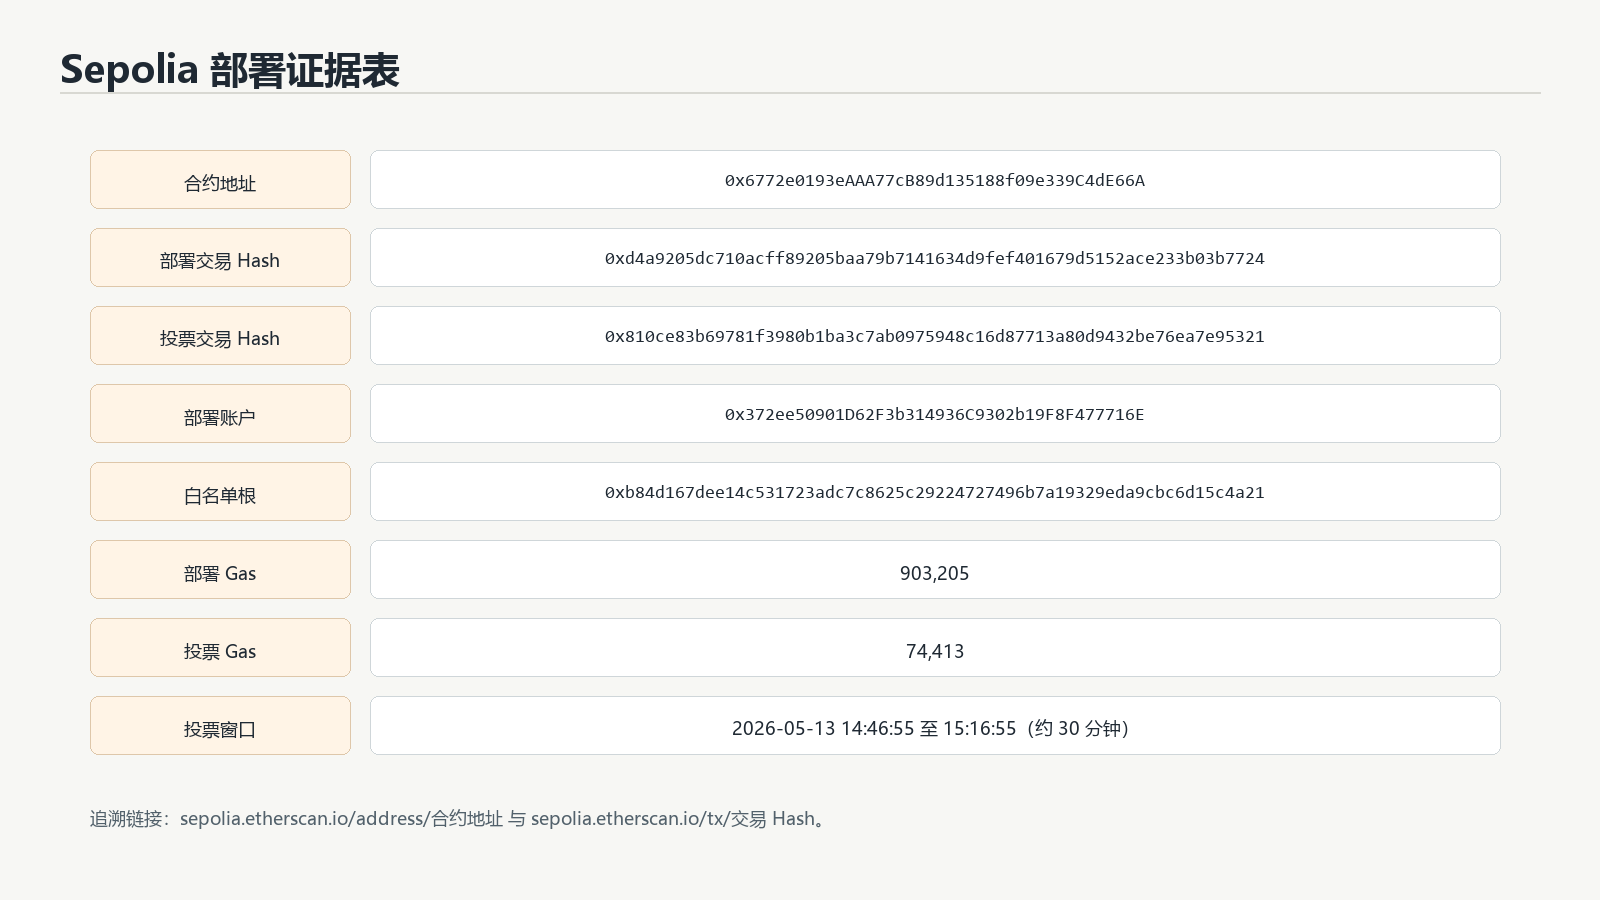
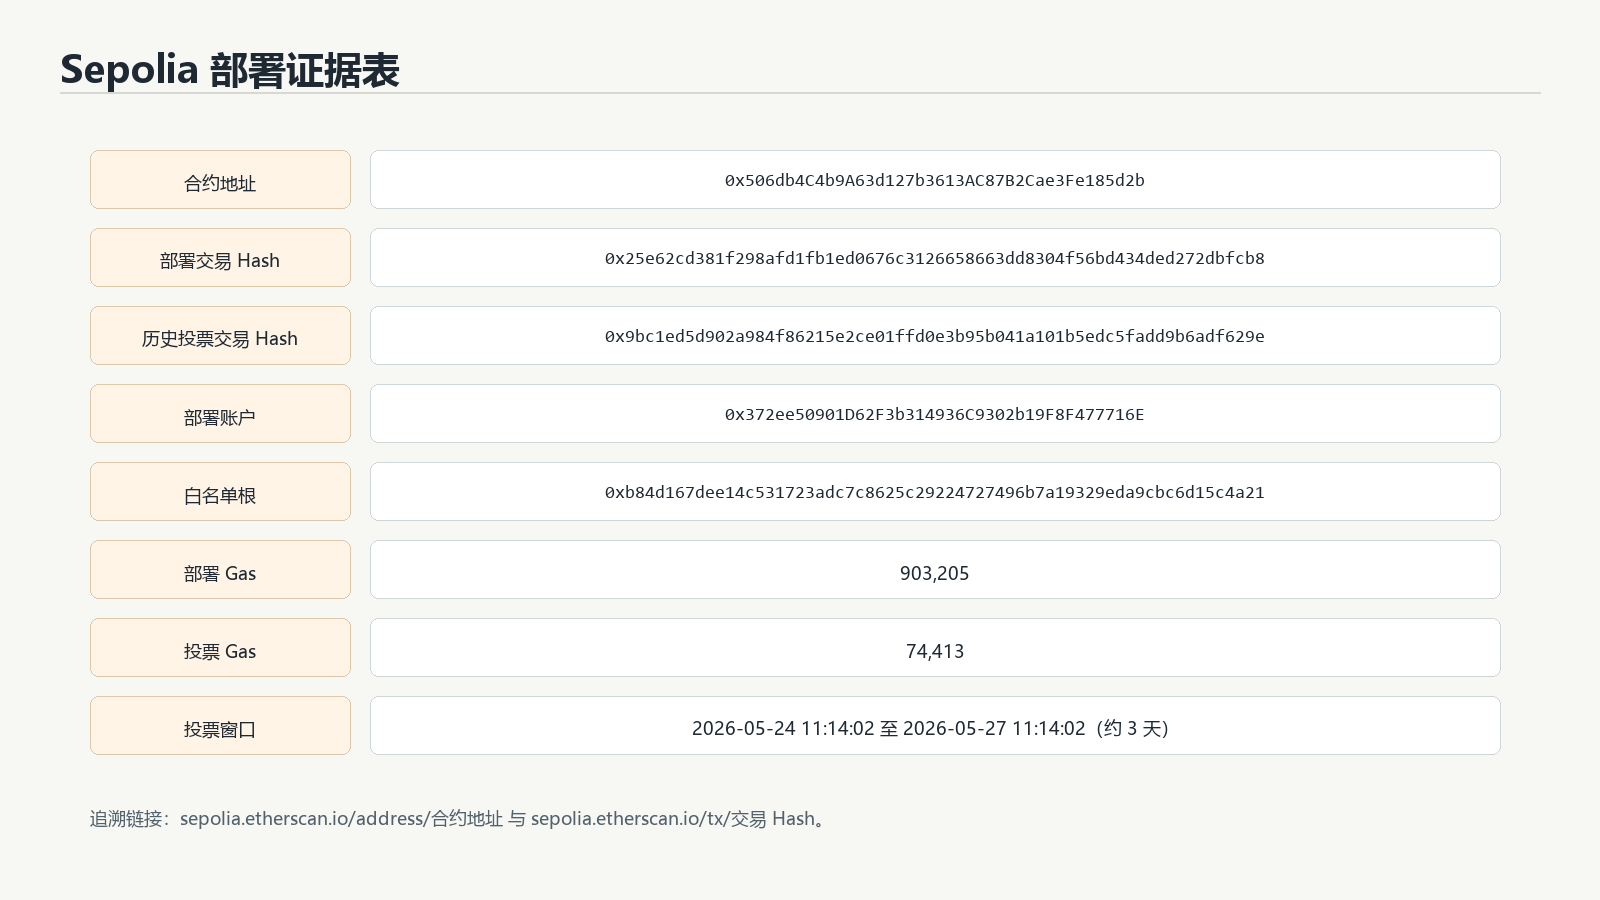
docs(部署): 将 Sepolia 投票窗口调整为 3 天

diff --git a/scripts/deploy.ts b/scripts/deploy.ts
@@ -44,8 +44,8 @@ async function main() {
   const candidates = validateCandidates(JSON.parse(fs.readFileSync(candidatesPath, "utf8")) as string[]);
   const merkleRoot = validateMerkleRoot(whitelist.merkleRoot);
   const now = Math.floor(Date.now() / 1000);
-  // 默认投票窗口为 30 分钟，满足毕业设计演示时的短周期测试需求。
-  const votingEndTime = now + 30 * 60;
+  // 默认投票窗口为 3 天，便于公网部署后留出充分的远程演示和测试时间。
+  const votingEndTime = now + 3 * 24 * 60 * 60;
   const title = "基于智能合约的去中心化电子投票演示";
 
   const VotingSystem = await ethers.getContractFactory("VotingSystem");

diff --git a/scripts/generateGraduationThesis.py b/scripts/generateGraduationThesis.py
@@ -405,13 +405,13 @@ def add_declarations(doc: Document):
 def add_abstracts(doc: Document):
     add_center(doc, "摘　　要", size=18, bold=True, font_name="黑体")
     add_para(doc, "随着在线治理、数字化协同和远程办公场景不断扩展，电子投票系统需要在可用性、透明性、结果可复核和安全性之间取得平衡。传统中心化电子投票系统通常由单一服务端保存选民状态和计票结果，容易面临单点故障、内部人为干预、过程追溯困难和结果公信力不足等问题。针对上述问题，本文设计并实现了一种基于 Solidity 智能合约与 Ethereum Sepolia 测试网的去中心化电子投票系统。系统以 VotingSystem 智能合约承载投票主题、候选项、投票时间、白名单资格校验、防重复投票和链上计票等核心逻辑；采用 Merkle Tree 保存白名单根以降低链上存储成本；使用 React、Vite、TypeScript、Ethers.js 和 MetaMask 构建前端 DApp，实现钱包连接、资格证明读取、投票提交、交易回执展示和实时结果查询。")
-    add_para(doc, "本文完成了需求分析、系统设计、合约实现、前端开发、自动化测试、Gas 消耗分析、安全审计和 Sepolia 测试网部署。测试结果显示，系统自动化测试共 24 个用例全部通过；本地部署 Gas 为 767,754，vote 方法平均 Gas 为 73,661；最新 Sepolia 部署合约地址为 0x6772e0193eAAA77cB89d135188f09e339C4dE66A，并完成了一笔真实投票交易。Slither 审计结果仅提示与投票截止时间相关的 timestamp 风险，该风险属于可解释的业务边界。实践结果表明，系统能够实现地址级资格控制、链上公开计票和结果可追溯，为小规模电子投票场景提供了一种可运行、可验证的实现方案。")
+    add_para(doc, "本文完成了需求分析、系统设计、合约实现、前端开发、自动化测试、Gas 消耗分析、安全审计和 Sepolia 测试网部署。测试结果显示，系统自动化测试共 24 个用例全部通过；本地部署 Gas 为 767,754，vote 方法平均 Gas 为 73,661；最新 Sepolia 部署合约地址为 0x506db4C4b9A63d127b3613AC87B2Cae3Fe185d2b，投票窗口约为 3 天。Slither 审计结果仅提示与投票截止时间相关的 timestamp 风险，该风险属于可解释的业务边界。实践结果表明，系统能够实现地址级资格控制、链上公开计票和结果可追溯，为小规模电子投票场景提供了一种可运行、可验证的实现方案。")
     add_para(doc, "关键词：去中心化投票；智能合约；Solidity；Merkle Tree；Ethereum；DApp", first_line=False, bold_prefix="关键词：")
     doc.add_page_break()
 
     add_center(doc, "ABSTRACT", size=18, bold=True, font_name="Times New Roman")
     add_para(doc, "With the expansion of online governance, digital collaboration and remote working scenarios, electronic voting systems need to balance usability, transparency, verifiability and security. Traditional centralized electronic voting systems usually store voter states and tallying results on a single server, which may lead to single point of failure, internal manipulation, weak process traceability and insufficient public trust. To address these problems, this thesis designs and implements a decentralized electronic voting system based on Solidity smart contracts and the Ethereum Sepolia test network. The VotingSystem smart contract is used to manage the voting title, candidates, voting period, whitelist verification, duplicate-vote prevention and on-chain tallying. A Merkle Tree whitelist is adopted so that only the Merkle root is stored on chain, reducing storage overhead. The front-end DApp is implemented with React, Vite, TypeScript, Ethers.js and MetaMask, supporting wallet connection, proof loading, vote submission, transaction receipt display and real-time result query.")
-    add_para(doc, "The work covers requirement analysis, system design, smart contract implementation, front-end development, automated testing, gas consumption analysis, security auditing and deployment on Sepolia. The automated test suite contains 24 passed cases. The local deployment consumes 767,754 gas, while the average gas consumption of the vote method is 73,661. The latest deployed Sepolia contract address is 0x6772e0193eAAA77cB89d135188f09e339C4dE66A, and one real voting transaction has been submitted successfully. Slither reports only timestamp-related warnings for the voting deadline, which are treated as acceptable business constraints. The results show that the system can provide address-level eligibility control, transparent on-chain tallying and traceable voting evidence, offering an executable and verifiable prototype for small-scale electronic voting scenarios.")
+    add_para(doc, "The work covers requirement analysis, system design, smart contract implementation, front-end development, automated testing, gas consumption analysis, security auditing and deployment on Sepolia. The automated test suite contains 24 passed cases. The local deployment consumes 767,754 gas, while the average gas consumption of the vote method is 73,661. The latest deployed Sepolia contract address is 0x506db4C4b9A63d127b3613AC87B2Cae3Fe185d2b, with a voting window of about three days. Slither reports only timestamp-related warnings for the voting deadline, which are treated as acceptable business constraints. The results show that the system can provide address-level eligibility control, transparent on-chain tallying and traceable voting evidence, offering an executable and verifiable prototype for small-scale electronic voting scenarios.")
     add_para(doc, "Key words: decentralized voting; smart contract; Solidity; Merkle Tree; Ethereum; DApp", first_line=False, bold_prefix="Key words:")
     doc.add_page_break()
 
@@ -438,7 +438,7 @@ def add_body(doc: Document):
     add_para(doc, "从国内应用背景看，电子投票常出现在高校评选、社团决策、企业内部意见征集和线上活动评审等场景。这些场景通常规模有限，但对过程公开、结果可信和操作便捷有一定要求。本文系统面向这类教学和演示场景，将核心目标放在防重复投票、防非授权地址投票、链上公开计票和部署证据留存，而不直接处理政务选举中的实名身份核验、强匿名性和法律效力问题。")
     add_section_heading(doc, "1.3  研究目标与主要内容")
     add_para(doc, "本文的研究目标是设计并实现一个可运行、可部署、可测试、可追溯的去中心化电子投票系统。系统应支持管理员配置投票主题和候选项，支持使用地址白名单限制投票资格，支持选民通过钱包签名提交投票交易，支持合约自动拒绝非白名单地址、重复投票和超时投票，并支持前端读取链上结果。")
-    add_para(doc, "围绕上述目标，本文完成以下工作：第一，设计投票系统的角色、功能需求、非功能需求和威胁边界；第二，基于 Solidity 编写 VotingSystem 智能合约，并使用 OpenZeppelin MerkleProof 完成白名单验证；第三，使用 Hardhat 搭建编译、测试、部署和 Gas 统计流程；第四，使用 React、TypeScript、Ethers.js 和 MetaMask 实现前端 DApp；第五，在 Sepolia 测试网上重新部署合约并提交真实投票交易；第六，使用 Slither 完成合约静态分析并形成审计记录。")
+    add_para(doc, "围绕上述目标，本文完成以下工作：第一，设计投票系统的角色、功能需求、非功能需求和威胁边界；第二，基于 Solidity 编写 VotingSystem 智能合约，并使用 OpenZeppelin MerkleProof 完成白名单验证；第三，使用 Hardhat 搭建编译、测试、部署和 Gas 统计流程；第四，使用 React、TypeScript、Ethers.js 和 MetaMask 实现前端 DApp；第五，在 Sepolia 测试网上重新部署合约并同步前端配置；第六，使用 Slither 完成合约静态分析并形成审计记录。")
     add_section_heading(doc, "1.4  论文结构安排")
     add_para(doc, "全文共分为七章。第一章介绍研究背景、研究现状、研究目标和论文结构。第二章说明 Ethereum、Solidity、ECDSA、Keccak-256、Merkle Tree 和 DApp 钱包交互等相关技术。第三章给出系统需求分析和威胁模型。第四章描述系统总体架构、业务流程、投票流程、合约接口和前端模块。第五章介绍智能合约、白名单脚本、部署脚本和前端界面的具体实现。第六章给出测试结果、Gas 消耗、安全审计和 Sepolia 部署证据。第七章总结已完成工作并分析后续改进方向。")
     add_section_heading(doc, "1.5  技术路线与可行性分析")
@@ -641,9 +641,9 @@ def add_body(doc: Document):
     add_para(doc, "私钥管理是系统实践中的重要风险。项目部署使用测试网账户完成，私钥只应保存在本地 .env 文件中，不应提交到 GitHub。由于测试网私钥在调试过程中存在暴露可能，完成毕业设计材料后应更换部署钱包或放弃该测试账户，避免后续被他人使用。")
     add_picture(doc, FIG / "security-audit-summary.png", "图6.3  Slither 安全审计结果摘要", width=5.7)
     add_section_heading(doc, "6.5  Sepolia 测试网部署结果")
-    add_para(doc, "最新 Sepolia 合约地址为 0x6772e0193eAAA77cB89d135188f09e339C4dE66A，部署交易 Hash 为 0xd4a9205dc710acff89205baa79b7141634d9fef401679d5152ace233b03b7724。部署账户为 0x372ee50901D62F3b314936C9302b19F8F477716E，投票窗口约为 30 分钟。系统已使用部署账户完成一笔真实投票交易，交易 Hash 为 0x810ce83b69781f3980b1ba3c7ab0975948c16d87713a80d9432be76ea7e95321，区块高度为 10843573。")
-    add_para(doc, "重新部署合约的目的，是为论文材料提供当前项目状态下的最新链上证据。由于投票窗口被设置为约 30 分钟，旧合约在窗口结束后无法继续产生有效投票交易，因此需要重新部署以获得可演示的投票窗口和真实交易回执。部署完成后，前端配置文件被重新导出，确保页面中的合约地址与 Sepolia 上的最新实例一致。")
-    add_para(doc, "部署证据不仅包括合约地址，还包括部署交易 Hash、投票交易 Hash、部署账户、白名单根、Gas 消耗和前端读取截图。合约地址能够定位链上合约实例，交易 Hash 能够定位具体执行过程，Gas 消耗能够说明执行成本，截图能够证明前端已读取对应合约状态。这些材料互相印证，比单独给出一个地址更适合毕业设计验收。")
+    add_para(doc, "最新 Sepolia 合约地址为 0x506db4C4b9A63d127b3613AC87B2Cae3Fe185d2b，部署交易 Hash 为 0x25e62cd381f298afd1fb1ed0676c3126658663dd8304f56bd434ded272dbfcb8。部署账户为 0x372ee50901D62F3b314936C9302b19F8F477716E，投票窗口约为 3 天，截止时间为北京时间 2026 年 5 月 27 日 11:14:02。")
+    add_para(doc, "重新部署合约的目的，是为公网部署和远程演示提供更充足的投票时间。与 30 分钟演示窗口相比，3 天窗口更适合让他人通过服务器访问前端并连接 Sepolia 钱包进行测试。部署完成后，前端配置文件被重新导出，确保页面中的合约地址与 Sepolia 上的最新实例一致。")
+    add_para(doc, "部署证据不仅包括合约地址，还包括部署交易 Hash、部署账户、白名单根、Gas 消耗和前端读取截图。合约地址能够定位链上合约实例，交易 Hash 能够定位具体执行过程，Gas 消耗能够说明执行成本，截图能够证明前端已读取对应合约状态。历史投票交易回执继续保留为既有链上证据，但不作为本次 3 天新合约的投票结果。")
     add_picture(doc, FIG / "deployment-evidence-table.png", "图6.4  Sepolia 部署证据表", width=5.9)
     add_picture(doc, SHOT / "system-home-chain-read.png", "图6.5  前端读取真实链上投票结果截图", width=4.8)
     add_section_heading(doc, "6.6  可复现性与结果评价")
@@ -687,9 +687,9 @@ def add_body(doc: Document):
     add_mono(doc, "npm install\nnpm run compile\nnpm test\nnpm run test:gas\nnpm run generate:whitelist\nnpm run deploy:sepolia\nnpm run export:frontend -- --network sepolia\nnpm run web:build\nslither . --filter-paths \"node_modules|artifacts|cache\"")
     add_section_heading(doc, "A.2  最新部署与交易证据")
     add_table(doc, ["字段", "内容"], [
-        ["合约地址", "0x6772e0193eAAA77cB89d135188f09e339C4dE66A"],
[2 lines of base64/hex data omitted]
+        ["合约地址", "0x506db4C4b9A63d127b3613AC87B2Cae3Fe185d2b"],
[3 lines of base64/hex data omitted]
         ["测试结果", "24 passing"],
         ["Slither 审计", "3 条 timestamp 提示，均已解释"],

diff --git a/scripts/generateGraduationFigures.py b/scripts/generateGraduationFigures.py
@@ -300,14 +300,14 @@ def build_gas_chart() -> None:
 def build_deployment_table() -> None:
     image, draw = make_canvas("Sepolia 部署证据表", 1600, 900)
     rows = [
-        ("合约地址", "0x6772e0193eAAA77cB89d135188f09e339C4dE66A"),
[2 lines of base64/hex data omitted]
+        ("合约地址", "0x506db4C4b9A63d127b3613AC87B2Cae3Fe185d2b"),
[2 lines of base64/hex data omitted]
         ("部署账户", "0x372ee50901D62F3b314936C9302b19F8F477716E"),
[1 lines of base64/hex data omitted]
         ("部署 Gas", "903,205"),
         ("投票 Gas", "74,413"),
-        ("投票窗口", "2026-05-13 14:46:55 至 15:16:55（约 30 分钟）"),
+        ("投票窗口", "2026-05-24 11:14:02 至 2026-05-27 11:14:02（约 3 天）"),
     ]
     x0, y0 = 90, 150
     for i, (key, value) in enumerate(rows):

diff --git a/docs/deployments/sepolia.md b/docs/deployments/sepolia.md
@@ -7,15 +7,15 @@
 | 网络 | Sepolia |
 | 合约 | `VotingSystem` |
 | Chain ID | `11155111` |
-| 合约地址 | `0x7140ecD54bf13bdc7A56364755fa8DAbFD3C2E28` |
[1 lines of base64/hex data omitted]
+| 合约地址 | `0x506db4C4b9A63d127b3613AC87B2Cae3Fe185d2b` |
[1 lines of base64/hex data omitted]
 | 部署账户 | `0x372ee50901D62F3b314936C9302b19F8F477716E` |
-| 部署时间 | `2026-05-24T02:18:26.689Z` |
-| 投票截止时间 | `2026-05-24T02:48:02.000Z` |
-| 投票窗口 | 约 30 分钟 |
+| 部署时间 | `2026-05-24T03:14:14.772Z` |
+| 投票截止时间 | `2026-05-27T03:14:02.000Z` |
+| 投票窗口 | 约 3 天 |
[1 lines of base64/hex data omitted]
-| Etherscan 地址 | <https://sepolia.etherscan.io/address/0x7140ecD54bf13bdc7A56364755fa8DAbFD3C2E28> |
-| Etherscan 部署交易 | <https://sepolia.etherscan.io/tx/0xa6b2bcfda0832e35ffe9f0e08781f3a25c551d4b16da586a0e42785841f62a86> |
+| Etherscan 地址 | <https://sepolia.etherscan.io/address/0x506db4C4b9A63d127b3613AC87B2Cae3Fe185d2b> |
+| Etherscan 部署交易 | <https://sepolia.etherscan.io/tx/0x25e62cd381f298afd1fb1ed0676c3126658663dd8304f56bd434ded272dbfcb8> |
 
 ## 白名单地址
 
@@ -36,9 +36,11 @@
 | 成功投票 `vote` 最小值 | `73,654` | `npm run test:gas` | 白名单账户首次投票 |
 | 成功投票 `vote` 最大值 | `73,666` | `npm run test:gas` | 不同 proof 路径产生细微差异 |
 | 成功投票 `vote` 平均值 | `73,661` | `npm run test:gas` | 5 次测试调用平均值 |
-| Sepolia 成功投票 | `74,413` | 投票交易回执 | 白名单部署账户为方案 A 投票 |
+| Sepolia 成功投票（历史） | `74,413` | 投票交易回执 | 上一轮合约中白名单部署账户为方案 A 投票 |
 
-## 投票交易证据
+## 历史投票交易证据
+
+本次 3 天投票窗口的新合约尚未提交真实投票交易，避免占用白名单账户的投票机会。以下交易为上一轮部署中的历史投票回执，仅用于保留既有链上证据。
 
 | 项目 | 内容 |
 | --- | --- |

diff --git a/deliverables/graduation/reports/deployment-summary.md b/deliverables/graduation/reports/deployment-summary.md
@@ -7,15 +7,17 @@
 | 网络 | Sepolia 测试网 |
 | Chain ID | `11155111` |
 | 合约名称 | `VotingSystem` |
-| 合约地址 | `0x7140ecD54bf13bdc7A56364755fa8DAbFD3C2E28` |
+| 合约地址 | `0x506db4C4b9A63d127b3613AC87B2Cae3Fe185d2b` |
 | 部署账户 | `0x372ee50901D62F3b314936C9302b19F8F477716E` |
[2 lines of base64/hex data omitted]
 | 部署 Gas | `903,205` |
-| 部署时间 | `2026-05-24T02:18:26.689Z` |
+| 部署时间 | `2026-05-24T03:14:14.772Z` |
[1 lines of base64/hex data omitted]
-| 投票截止时间 | `2026-05-24 10:48:02`（北京时间） |
+| 投票截止时间 | `2026-05-27 11:14:02`（北京时间） |
 
-## 真实投票交易
+## 历史投票交易
+
+本次 3 天投票窗口的新合约尚未提交真实投票交易，避免占用白名单账户的投票机会。以下交易为上一轮部署中的历史投票回执。
 
 | 字段 | 内容 |
 | --- | --- |
@@ -27,8 +29,8 @@
 
 ## 追溯链接
 
-- 合约地址：https://sepolia.etherscan.io/address/0x7140ecD54bf13bdc7A56364755fa8DAbFD3C2E28
-- 部署交易：https://sepolia.etherscan.io/tx/0xa6b2bcfda0832e35ffe9f0e08781f3a25c551d4b16da586a0e42785841f62a86
+- 合约地址：https://sepolia.etherscan.io/address/0x506db4C4b9A63d127b3613AC87B2Cae3Fe185d2b
+- 部署交易：https://sepolia.etherscan.io/tx/0x25e62cd381f298afd1fb1ed0676c3126658663dd8304f56bd434ded272dbfcb8
 - 投票交易：https://sepolia.etherscan.io/tx/0x9bc1ed5d902a984f86215e2ce01ffd0e3b95b041a101b5edc5fadd9b6adf629e
 
 说明：Etherscan 页面在自动化截图过程中触发 Cloudflare 安全验证，因此说明书采用真实链接、部署 JSON、交易回执和系统运行截图共同构成可追溯证据。

diff --git a/docs/process/method-compliance-checklist.md b/docs/process/method-compliance-checklist.md
@@ -13,7 +13,7 @@
 | 合约安全规范 | 已补齐 | `VotingSystem.sol`、Checks-Effects-Interactions 分析 |
 | Slither 审计 | 已补齐 | `docs/security/slither-audit.md`、`docs/security/slither-results.json` |
 | Gas 记录 | 已补齐 | `npm run test:gas` 输出、部署记录 |
-| 部署文档同步 | 已完成 | 最新合约地址 `0x7140ecD54bf13bdc7A56364755fa8DAbFD3C2E28` |
+| 部署文档同步 | 已完成 | 最新合约地址 `0x506db4C4b9A63d127b3613AC87B2Cae3Fe185d2b` |
 | 阶段文档资料 | 已补齐 | `README.md`、`docs` 目录、测试清单、部署记录 |
 | 工程伦理与法律风险 | 基本满足 | 项目用于毕业设计演示，不涉及违法交易、资金托管或隐私数据上链 |
 

diff --git a/deliverables/graduation/reports/code-change-summary.md b/deliverables/graduation/reports/code-change-summary.md
@@ -11,7 +11,7 @@
 
 | 文件 | 修改内容 |
 | --- | --- |
-| `deployments/sepolia.json` | 更新为最新 Sepolia 合约地址、部署交易 Hash、部署 Gas 和 30 分钟投票窗口。 |
+| `deployments/sepolia.json` | 更新为最新 Sepolia 合约地址、部署交易 Hash、部署 Gas 和 3 天投票窗口。 |
 | `apps/web/public/deployment.json` | 同步前端运行所需的 ABI、合约地址和部署配置。 |
 | `docs/deployments/sepolia.md` | 更新最新部署记录、真实投票交易和 Etherscan 追溯链接。 |
 | `docs/security/slither-results.json` | 更新 Slither 最新审计 JSON 输出。 |
